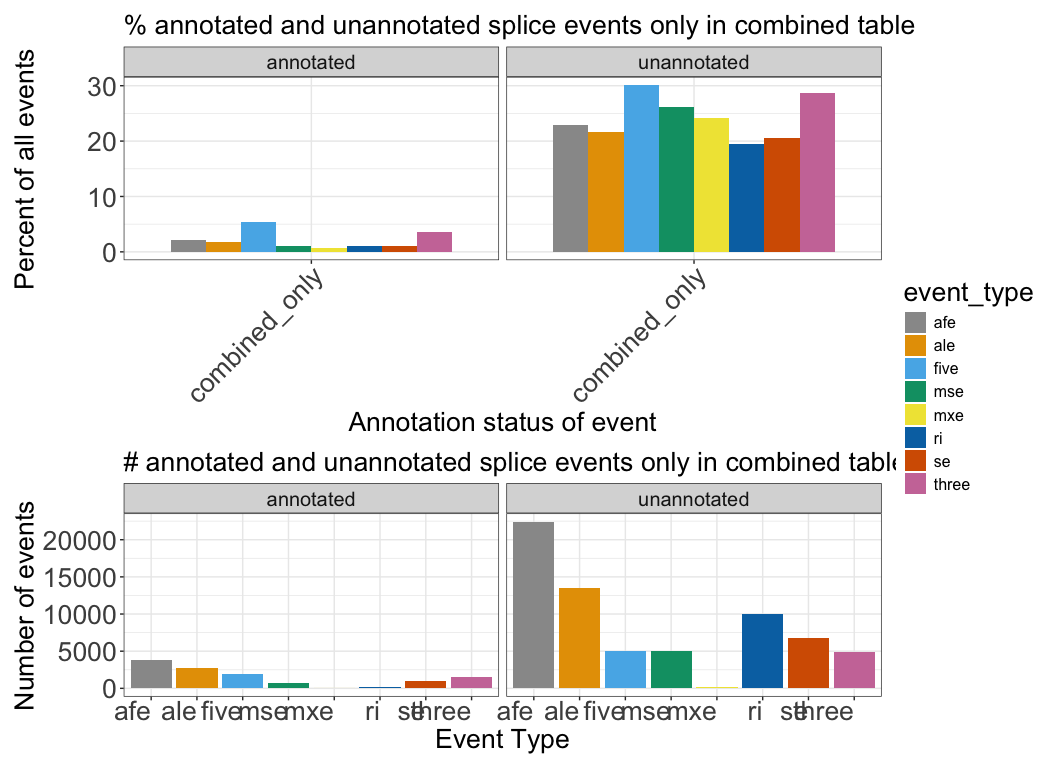
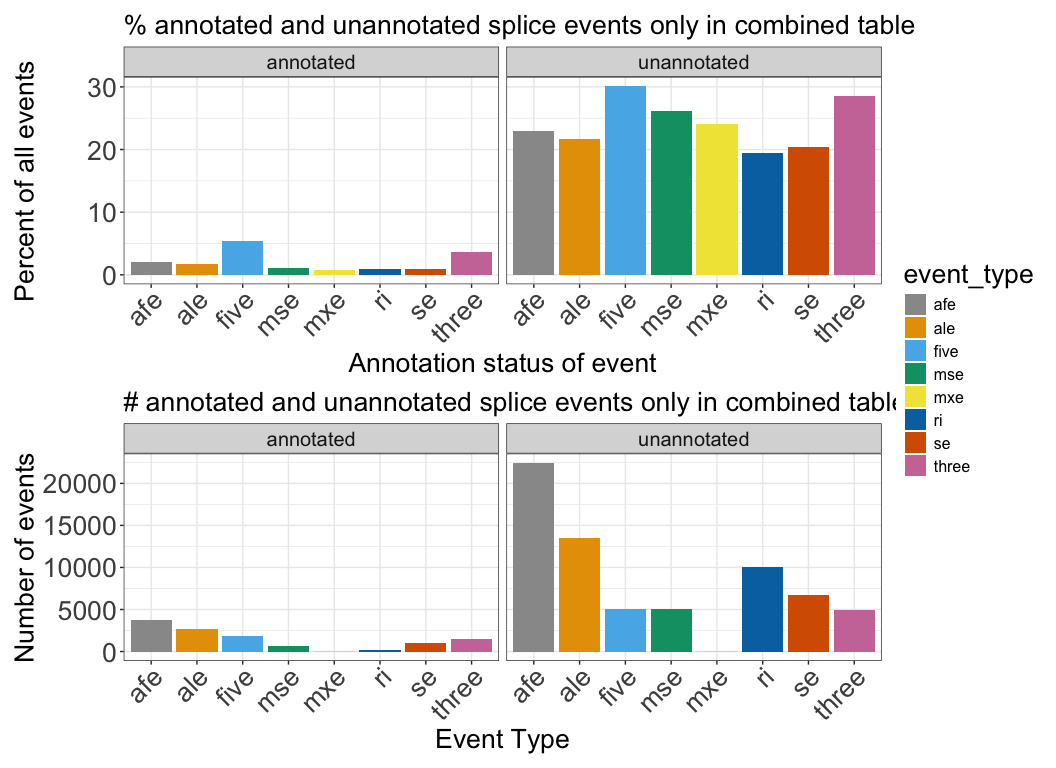
add PSI value counts and histograms

diff --git a/exploration/merging-psi-tables/target_pilot/compare_merged_psi_table.md b/exploration/merging-psi-tables/target_pilot/compare_merged_psi_table.md
@@ -1,6 +1,6 @@
 # Compare merged PSI table from TARGET pilot samples
 Cindy Liang (celiang@ucsc.edu)
-2026-05-06
+2026-05-08
 
 **Question:** Does merging separate splice tables cause us to lose out
 on the trustworthiness of unannotated events to an extent that it
@@ -337,16 +337,17 @@ counts_plot <- ggplot(long_summary_df, aes(fill = event_type, x = event_type, y 
       y = "Number of events"
     ) +
     facet_wrap(vars(label)) +
+    scale_x_discrete(guide = guide_axis(angle = 45)) +
     theme(strip.text = element_text(size = 15))
 
 # create percents grouped barplot
-percents_plot <- ggplot(long_summary_df, aes(fill = event_type, x = category, y = percent)) +
+percents_plot <- ggplot(long_summary_df, aes(fill = event_type, x = event_type, y = percent)) +
     geom_bar(position = "dodge", stat = "identity") +
       scale_fill_manual(values = cbPalette) +
     plot_theme +
     labs(
       title = "% annotated and unannotated splice events only in combined table",
-      x = "Annotation status of event",,
+      x = "Annotation status of event",
       y = "Percent of all events"
     ) +
     facet_wrap(vars(label)) +
@@ -379,14 +380,94 @@ events seems rough.
   events only have a numeric PSI value in one (or a very low amount of)
   samples?
 
-Filter for minimum of 5 samples with numeric PSI values
+Add summary columns to dataframe
+
+``` r
+all_events <- all_events |>
+  dplyr::mutate(
+    ## count PSI value types in separate table ##
+    # count the number of PSI values that are not one of our NA types
+    n_quantified = rowSums(
+      # select sample PSI values that are not one of our NA types
+      dplyr::pick(dplyr::matches("(_PSI_separate)$")) >= 0, 
+      # ignore NA values (events only in separate or combined tables)
+      na.rm = TRUE),
+    # count the number of PSI values dropped due to insufficient reads
+    n_shiba_na = rowSums(
+      # select sample PSI values that have -1 NA type
+      dplyr::pick(dplyr::matches("(_PSI_separate)$")) == -1,
+      na.rm = TRUE),
+    # count number of PSI values dropped due to lack of transcript diversity in single samples
+    n_separate_dropped = rowSums(
+      # elect sample PSI values that have -2 NA type
+      dplyr::pick(dplyr::matches("(_PSI_separate)$")) == -2
+    ),
+    ## count PSI value types in combined table ##    
+    # count the number of PSI values that are not one of our NA types
+    n_quantified_combined = rowSums(
+      # select sample PSI values that are not one of our NA types
+      dplyr::pick(dplyr::matches("(_PSI_combined)$")) >= 0, 
+      # ignore NA values (events only in separate or combined tables)
+      na.rm = TRUE),
+    # count the number of PSI values dropped due to insufficient reads
+    n_shiba_na_combined = rowSums(
+      # select sample PSI values that have -1 NA type
+      dplyr::pick(dplyr::matches("(_PSI_combined)$")) == -1,
+      na.rm = TRUE),
+    # count number of PSI values dropped due to lack of transcript diversity in single samples
+    n_separate_dropped_combined = rowSums(
+      # elect sample PSI values that have -2 NA type
+      dplyr::pick(dplyr::matches("(_PSI_combined)$")) == -2
+    )
+  )
+
+# check what summary looks like
+all_events |>
+  dplyr::select(pos_id, n_quantified, n_shiba_na, n_separate_dropped, 
+                n_quantified_combined, n_shiba_na_combined, n_separate_dropped_combined) |>
+  head()
+```
+
+| pos_id | n_quantified | n_shiba_na | n_separate_dropped | n_quantified_combined | n_shiba_na_combined | n_separate_dropped_combined |
+|:---|---:|---:|---:|---:|---:|---:|
+| SE@GL000008.2@129985-130583@85625-155430 | 2 | 24 | 62 | 2 | 86 | 0 |
+| SE@GL000008.2@135134-135173@85625-155430 | 1 | 19 | 68 | 1 | 87 | 0 |
+| SE@GL000008.2@154869-154964@154715-156667 | 2 | 30 | 56 | 2 | 86 | 0 |
+| SE@GL000008.2@155430-155531@135173-156721 | 3 | 24 | 61 | 3 | 85 | 0 |
+| SE@GL000008.2@156667-156758@154715-157528 | 1 | 25 | 62 | 1 | 87 | 0 |
+| SE@GL000008.2@156667-156761@154715-157528 | 1 | 28 | 59 | 1 | 87 | 0 |
+
+Filter for minimum samples with numeric PSI values in the separate table
+and check n_quantified
 
 ``` r
 # event-level summary of the number of each splice event type in each splice table
-all_events_summary_min_samples <- all_events |>
+all_events_min_samples <- all_events |>
   # filter for events where there are numeric PSI values in at least 5 samples
-  # there is probably a more secure way to do this but the only numeric values in this table should be the PSI values per sample so i think this works
-  dplyr::filter(rowSums(dplyr::across(where(is.numeric), ~ . >= 0 )) >= min_samples) |>
+  dplyr::filter(n_quantified >= min_samples)
+
+# check what summary columns look like
+all_events_min_samples  |>
+  dplyr::select(pos_id, n_quantified, n_shiba_na, n_separate_dropped,
+                n_quantified_combined, n_shiba_na_combined, n_separate_dropped_combined) |>
+  dplyr::arrange((n_quantified)) |>
+  head()
+```
+
+| pos_id | n_quantified | n_shiba_na | n_separate_dropped | n_quantified_combined | n_shiba_na_combined | n_separate_dropped_combined |
+|:---|---:|---:|---:|---:|---:|---:|
+| SE@GL000008.2@197587-197618@194536-198476 | 5 | 23 | 60 | 5 | 83 | 0 |
+| SE@GL000008.2@88636-88695@85625-129985 | 5 | 23 | 60 | 5 | 83 | 0 |
+| SE@GL000195.1@143414-143629@142240-172694 | 5 | 46 | 37 | 5 | 83 | 0 |
+| SE@GL000195.1@143515-143629@142240-172694 | 5 | 45 | 38 | 5 | 83 | 0 |
+| SE@GL000195.1@149032-149164@142240-172694 | 5 | 45 | 38 | 5 | 83 | 0 |
+| SE@GL000195.1@151955-152034@142240-172694 | 5 | 53 | 30 | 5 | 83 | 0 |
+
+Plot event distributions of the filtered table
+
+``` r
+# event-level summary of the number of each splice event type in each splice table
+all_events_summary_min_samples <- all_events_min_samples |>
   # this data frame still may include -1 and -2 NA values for other splice events but the sample-level analysis later will tell us more
   dplyr::summarise(
     .by = c(event_type, label),
@@ -413,7 +494,13 @@ Figure 3
 
 </div>
 
-Print table of splice event counts
+Observations: - Although most events are shared after applying this
+filter and we still have unannotated events, we also still have events
+only found in the separate table. These events are harder to deal with
+because they may be real events mislabeled by Shiba, or they may be
+unreal events (we cannot easily tell)
+
+Print table of splice event counts of filtered table
 
 ``` r
 all_events_summary_min_samples |>
@@ -422,30 +509,158 @@ all_events_summary_min_samples |>
 
 | event_type | label       | shared_count | separate_only_count | combined_only_count |
 |:-----------|:------------|-------------:|--------------------:|--------------------:|
-| se         | annotated   |        60659 |                   0 |                   0 |
-| se         | unannotated |        18982 |                   0 |                   0 |
-| afe        | annotated   |        82852 |                   0 |                   0 |
-| afe        | unannotated |        31761 |                   0 |                   0 |
-| ale        | annotated   |        52570 |                   0 |                   0 |
-| ale        | unannotated |        17473 |                   0 |                   0 |
-| five       | annotated   |        18872 |                   0 |                   0 |
-| five       | unannotated |         6925 |                   0 |                   0 |
-| three      | annotated   |        22604 |                   0 |                   0 |
-| three      | unannotated |         7843 |                   0 |                   0 |
-| mse        | annotated   |        43069 |                   0 |                   0 |
-| mse        | unannotated |        10694 |                   0 |                   0 |
-| mxe        | annotated   |          388 |                   0 |                   0 |
-| mxe        | unannotated |           82 |                   0 |                   0 |
-| ri         | annotated   |        10383 |                   0 |                   0 |
-| ri         | unannotated |        23836 |                   0 |                   0 |
+| se         | annotated   |        55020 |                 813 |                   0 |
+| se         | unannotated |         2820 |                 312 |                   0 |
+| afe        | annotated   |        70759 |               10601 |                   0 |
+| afe        | unannotated |         2148 |                1566 |                   0 |
+| ale        | annotated   |        43524 |               13828 |                   0 |
+| ale        | unannotated |         1123 |                1289 |                   0 |
+| five       | annotated   |        13783 |                 423 |                   0 |
+| five       | unannotated |          756 |                 145 |                   0 |
+| three      | annotated   |        18014 |                 472 |                   0 |
+| three      | unannotated |          941 |                 140 |                   0 |
+| mse        | annotated   |        38267 |                 229 |                   0 |
+| mse        | unannotated |         1064 |                 123 |                   0 |
+| mxe        | annotated   |          346 |                 115 |                   0 |
+| mxe        | unannotated |            8 |                   9 |                   0 |
+| ri         | annotated   |         9585 |                1675 |                   0 |
+| ri         | unannotated |         6692 |                1139 |                   0 |
 
-This looks better to me, with the caveat that we lose all the
-combined_only events in
-<a href="#fig-splice_events_breakdown" class="quarto-xref">Figure 1</a>.
-The number of shared AFE events in
-<a href="#fig-splice_events_breakdown" class="quarto-xref">Figure 1</a>
-is ~40,000 so we seem to get most of those AFE events if we ask for
-splice events that are shared in 5 or more samples. The reduction in SE
-events is small too - we go from around 20,000 in
-<a href="#fig-splice_events_breakdown" class="quarto-xref">Figure 1</a>,
-to slightly under 20,000 here.
+## How many of each splice event types are quantified?
+
+### PSI value counts for unfiltered events
+
+Histogram of quantified events
+
+``` r
+# PSI distribution plots of events in each method
+number_events_dist <- function(
+    df,
+    psi_type, title) {
+    # construct histogram
+    ggplot(df,  aes(x = .data[[psi_type]], fill = event_type)) +
+    geom_histogram(bins = 20) +
+    facet_wrap(vars(event_type, label), scales = "free_y") +
+    scale_fill_manual(values = cbPalette) +
+    plot_theme +
+    # make facet labels bigger
+    theme(strip.text.x = element_text(size = global_size),
+          # rotate x axis labels so they don't overlap
+          axis.text.x = element_text(angle =45)) +
+    ggtitle(title)
+}
+
+number_events_dist(all_events, "n_quantified",   "Number of quantified PSI values in separate table")
+```
+
+<div id="fig-num_quantified_psi">
+
+<img
+src="compare_merged_psi_table_files/figure-commonmark/fig-num_quantified_psi-1.png"
+id="fig-num_quantified_psi" />
+
+Figure 4
+
+</div>
+
+Histogram of events dropped by Shiba due to insufficient read counts
+
+``` r
+number_events_dist(all_events, "n_shiba_na",   "Number of PSIs dropped due to insufficient read counts in separate table")
+```
+
+<div id="fig-num_low_read_na">
+
+<img
+src="compare_merged_psi_table_files/figure-commonmark/fig-num_low_read_na-1.png"
+id="fig-num_low_read_na" />
+
+Figure 5
+
+</div>
+
+Histogram of events dropped by separate table due to insufficient
+transcript representation
+
+``` r
+number_events_dist(all_events, "n_separate_dropped", "Number of PSIs dropped due to insufficient transcripts in separate table")
+```
+
+    Warning: Removed 79579 rows containing non-finite outside the scale range
+    (`stat_bin()`).
+
+<div id="fig-num_low_transcript_na">
+
+<img
+src="compare_merged_psi_table_files/figure-commonmark/fig-num_low_transcript_na-1.png"
+id="fig-num_low_transcript_na" />
+
+Figure 6
+
+</div>
+
+### PSI value counts for events filtered for quantified PSI values in a minimum amount of samples
+
+Histogram of quantified events
+
+``` r
+number_events_dist(all_events_min_samples, "n_quantified",   "Number of quantified PSI values in separate table")
+```
+
+<div id="fig-num_quantified_psi_minfiltered">
+
+<img
+src="compare_merged_psi_table_files/figure-commonmark/fig-num_quantified_psi_minfiltered-1.png"
+id="fig-num_quantified_psi_minfiltered" />
+
+Figure 7
+
+</div>
+
+Histogram of events dropped by Shiba due to insufficient read counts
+
+``` r
+number_events_dist(all_events_min_samples, "n_shiba_na",   "Number of PSIs dropped due to insufficient read counts in separate table")
+```
+
+<div id="fig-num_low_read_na_minfiltered">
+
+<img
+src="compare_merged_psi_table_files/figure-commonmark/fig-num_low_read_na_minfiltered-1.png"
+id="fig-num_low_read_na_minfiltered" />
+
+Figure 8
+
+</div>
+
+Histogram of events dropped by separate table due to insufficient
+transcript representation
+
+``` r
+number_events_dist(all_events_min_samples, "n_separate_dropped", "Number of PSIs dropped due to insufficient transcripts in separate table")
+```
+
+<div id="fig-num_low_transcript_na_minfiltered">
+
+<img
+src="compare_merged_psi_table_files/figure-commonmark/fig-num_low_transcript_na_minfiltered-1.png"
+id="fig-num_low_transcript_na_minfiltered" />
+
+Figure 9
+
+</div>
+
+The way I am plotting these histograms makes it difficult to compare the
+number of PSI values in each category between the unfilterd and filtered
+data frames. I additionally want to compare these numbers between the
+separate and complete tables but am not sure if that is useful
+information. These are a lot of facets that would be confusing to look
+at all at once. One idea I have is to just plot the skipped exon
+histograms, colored by the type of PSI value (n_quantified,
+n_shiba_dropped, n_separate_dropped), Faceted by label
+(annotated/unannotated), and whether the quantification is from the
+separate or combined table. I would make one of these plots for the full
+dataframe and a second for the filtered one.
+
+My biggest takeaway here is “if we filter for min 5 samples, there are
+fewer thing dropped. But many things are still dropped, which is bad”
